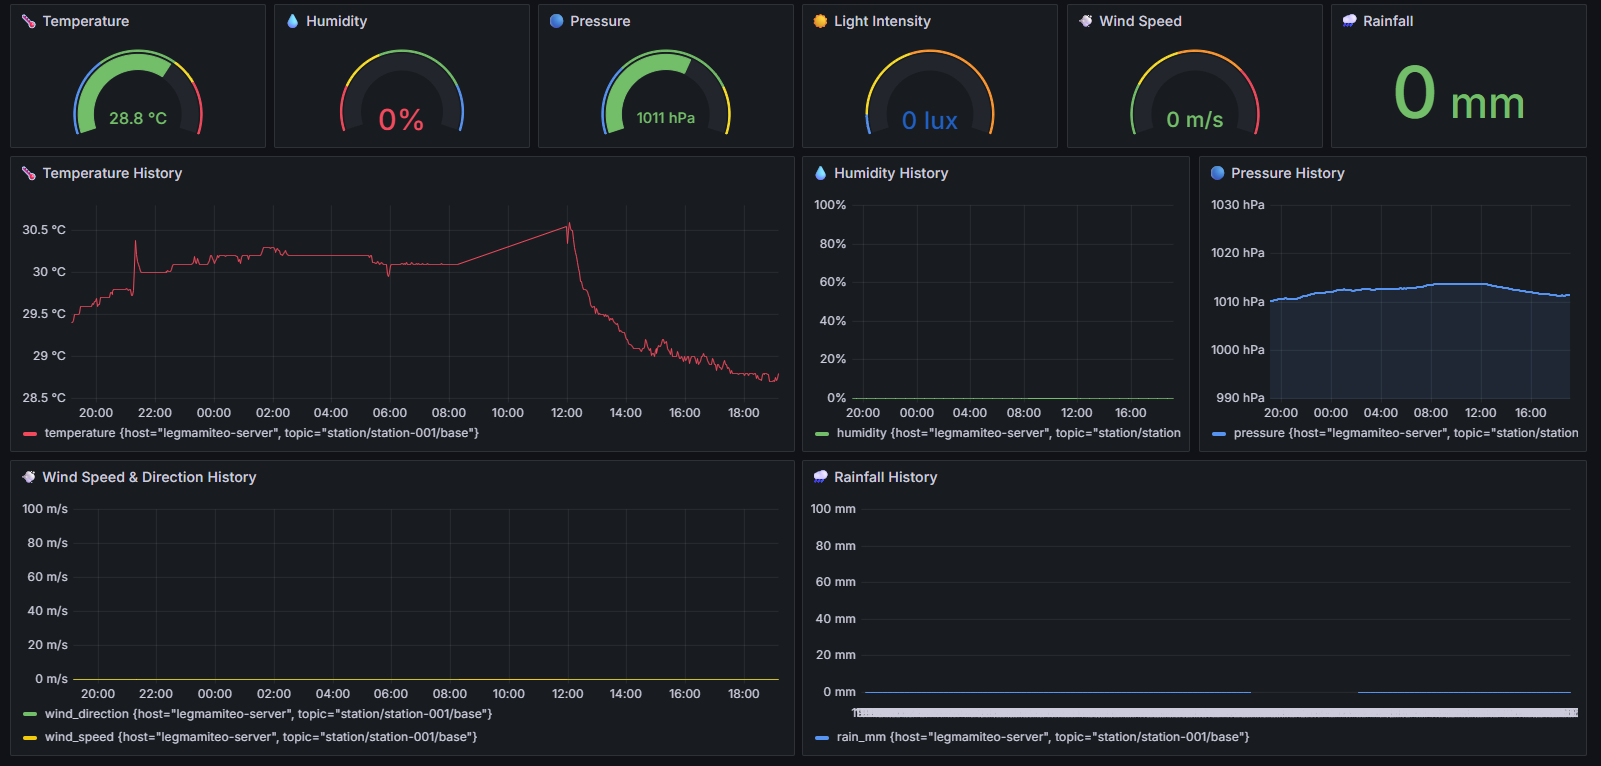
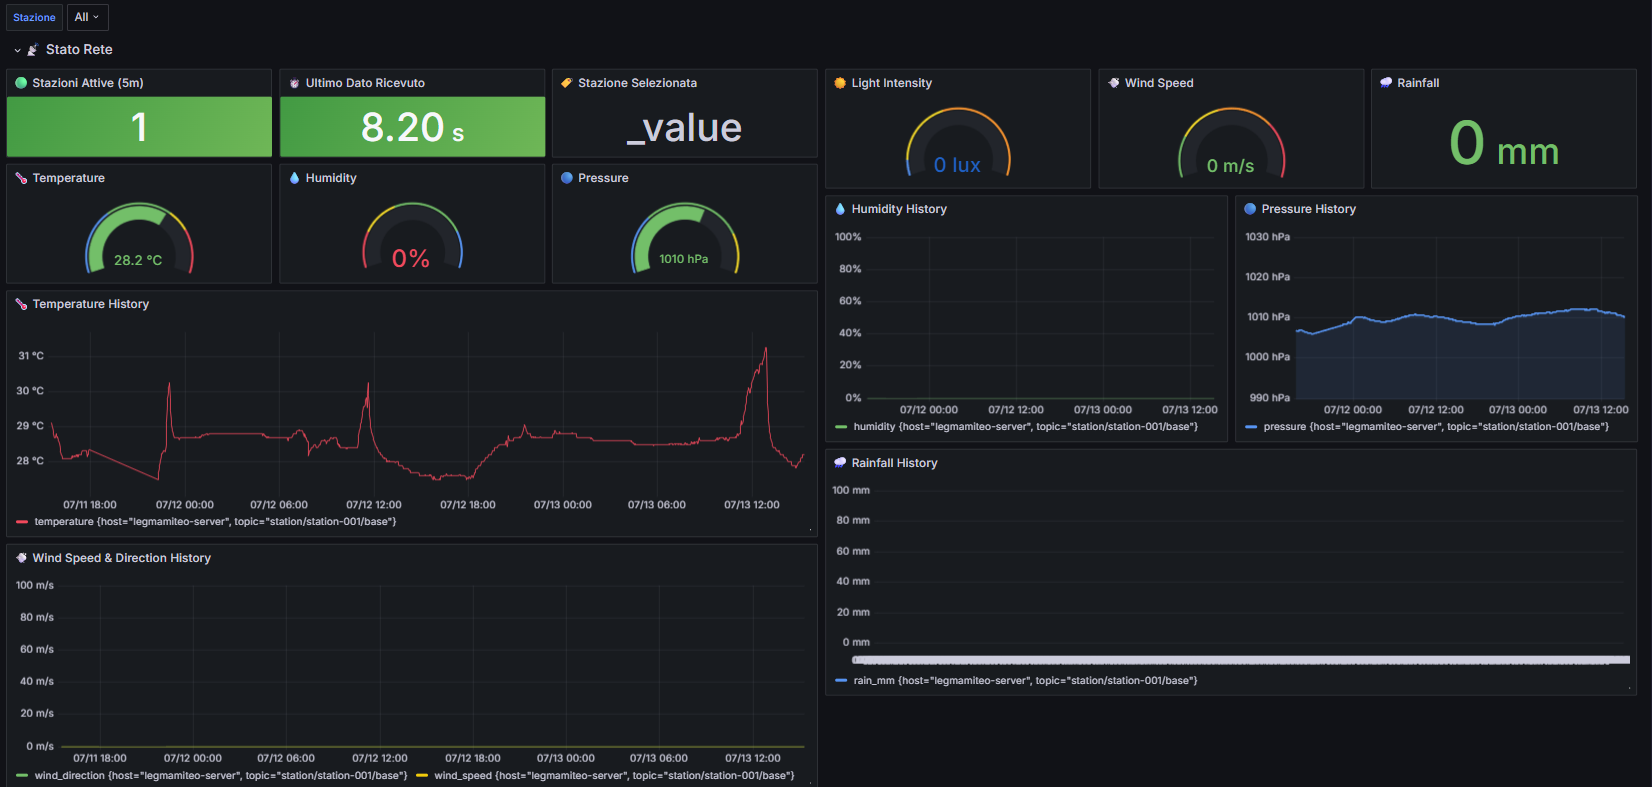
Updated firmware with modem mode and new image

diff --git a/firmware/base/Stazione-001-V2/src/main.cpp b/firmware/base/Stazione-001-V2/src/main.cpp
@@ -199,6 +199,14 @@ void trySyncTime() {
 bool connectWifiCompleto() {
   Serial.print("[WiFi] Connessione completa in corso...");
   WiFi.mode(WIFI_STA);
+
+  // NOTA: qui avevamo forzato un DNS statico esterno (8.8.8.8 / 1.1.1.1)
+  // per accorciare il ritardo di risoluzione DNS al boot. Rimosso: sul
+  // router di questa rete, le query DNS dirette verso resolver esterni
+  // sembrano essere bloccate/filtrate (comune su alcuni router ISP),
+  // causando un fallimento DNS permanente invece del solo ritardo
+  // iniziale di ~30s che si aveva usando il DNS fornito dal router via
+  // DHCP. Si torna quindi al comportamento di default (DNS del router).
   WiFi.begin(WIFI_SSID, WIFI_PASSWORD);
 
   int attempts = 0;
@@ -296,8 +304,27 @@ bool assicuraConnessioneAttiva() {
   return false;
 }
 
-const unsigned long SD_FLUSH_TIME_BUDGET_MS = 3000;
+// --- Budget di flush ADATTIVO in base a quanto backlog resta da inviare ---
+// In condizioni normali (backlog piccolo o assente) il flush resta breve
+// e a basso consumo. Se il backlog è grande (es. dopo giorni di blackout
+// per un evento meteo estremo che ha tirato giù la linea), il budget si
+// allarga molto per recuperare aggressivamente, sfruttando il fatto che
+// la connessione MQTT è già stabile (niente più costo di handshake ad
+// ogni ciclo con l'architettura a connessione persistente). La lettura
+// live viene SEMPRE inviata prima di questo flush (vedi loop()), quindi
+// allargare questo budget non fa mai perdere un dato live: al massimo
+// allunga quel singolo ciclo, il prossimo campione arriverà con qualche
+// secondo di ritardo ma nessun dato va perso.
+const unsigned long SD_FLUSH_BUDGET_NORMALE_MS   = 600;    // backlog piccolo/assente
+const unsigned long SD_FLUSH_BUDGET_MEDIO_MS     = 3000;   // backlog moderato (minuti/poche ore)
+const unsigned long SD_FLUSH_BUDGET_AGGRESSIVO_MS = 8000;  // backlog enorme (giorni), lascia
+                                                             // comunque margine nel ciclo da 10s
+                                                             // per non bloccare mai del tutto
+const uint32_t SD_SOGLIA_BACKLOG_MEDIO_BYTES      = 50000;   // ~50KB
+const uint32_t SD_SOGLIA_BACKLOG_GRANDE_BYTES     = 500000;  // ~500KB
+
 const unsigned long SD_FLUSH_DELAY_MS = 50;
+const int SD_FLUSH_MAX_ROWS_PER_CYCLE_NORMALE = 10;
 
 void svuotaCodaSD() {
   if (!SD.exists("/backup.jsonl")) {
@@ -321,6 +348,25 @@ void svuotaCodaSD() {
     return;
   }
 
+  uint32_t backlogResiduo = fileSize - sdReadOffset;
+  unsigned long flushBudgetMs;
+  int maxRighePerCiclo;
+
+  if (backlogResiduo >= SD_SOGLIA_BACKLOG_GRANDE_BYTES) {
+    // Backlog enorme: modalità recupero aggressivo, nessun limite di
+    // righe (solo il budget di tempo conta), per svuotare il più
+    // possibile in ogni ciclo finché il backlog resta sopra soglia.
+    flushBudgetMs = SD_FLUSH_BUDGET_AGGRESSIVO_MS;
+    maxRighePerCiclo = INT32_MAX;
+    Serial.println("[SD-RECOVERY] Backlog enorme rilevato: modalità recupero aggressivo attiva.");
+  } else if (backlogResiduo >= SD_SOGLIA_BACKLOG_MEDIO_BYTES) {
+    flushBudgetMs = SD_FLUSH_BUDGET_MEDIO_MS;
+    maxRighePerCiclo = INT32_MAX;
+  } else {
+    flushBudgetMs = SD_FLUSH_BUDGET_NORMALE_MS;
+    maxRighePerCiclo = SD_FLUSH_MAX_ROWS_PER_CYCLE_NORMALE;
+  }
+
   Serial.printf("[SD-RECOVERY] Riprendo l'invio da offset %u/%u byte...\n", sdReadOffset, fileSize);
 
   file.seek(sdReadOffset);
@@ -332,7 +378,10 @@ void svuotaCodaSD() {
   int righeInviate = 0;
 
   while (file.available()) {
-    if ((millis() - flushStart) >= SD_FLUSH_TIME_BUDGET_MS) {
+    if ((millis() - flushStart) >= flushBudgetMs) {
+      break;
+    }
+    if (righeInviate >= maxRighePerCiclo) {
       break;
     }
 
@@ -499,6 +548,32 @@ void setup() {
 
   bool wifiOk = connectWifiCompleto();
   bool mqttOk = wifiOk && connectMqtt();
+
+  // Retry serrato SOLO in questa fase di avvio: se il primo tentativo
+  // fallisce (tipicamente per DNS non ancora pronto, il router/rete
+  // impiega qualche decina di secondi ad "assestarsi" dopo un boot
+  // fisico), ritentiamo ogni 3s per un massimo di ~90s invece di
+  // aspettare il primo ciclo intero da 10s ripetuto più volte. Questo
+  // aggancia la connessione MQTT il prima possibile appena la rete è
+  // pronta, invece di sprecare tempo morto tra un tentativo e l'altro.
+  // Una volta usciti da setup(), il ritmo normale a 10s per ciclo
+  // riprende (vedi loop()), qui serve solo a velocizzare il boot.
+  if (wifiOk && !mqttOk) {
+    const unsigned long RETRY_AVVIO_INTERVALLO_MS = 3000;
+    const unsigned long RETRY_AVVIO_TIMEOUT_MS = 90000;
+    unsigned long retryStart = millis();
+
+    Serial.println("[MQTT] Primo tentativo fallito, retry serrato in fase di avvio...");
+    while (!mqttOk && (millis() - retryStart) < RETRY_AVVIO_TIMEOUT_MS) {
+      delay(RETRY_AVVIO_INTERVALLO_MS);
+      if (WiFi.status() != WL_CONNECTED) break; // Se anche il WiFi cade,
+                                                  // meglio lasciare che
+                                                  // sia il ciclo normale
+                                                  // (con reset completo)
+                                                  // a gestire il caso.
+      mqttOk = connectMqtt();
+    }
+  }
 
   if (wifiOk && !mqttOk) {
     Serial.println("[MQTT] Broker non raggiungibile nonostante il WiFi attivo.");
